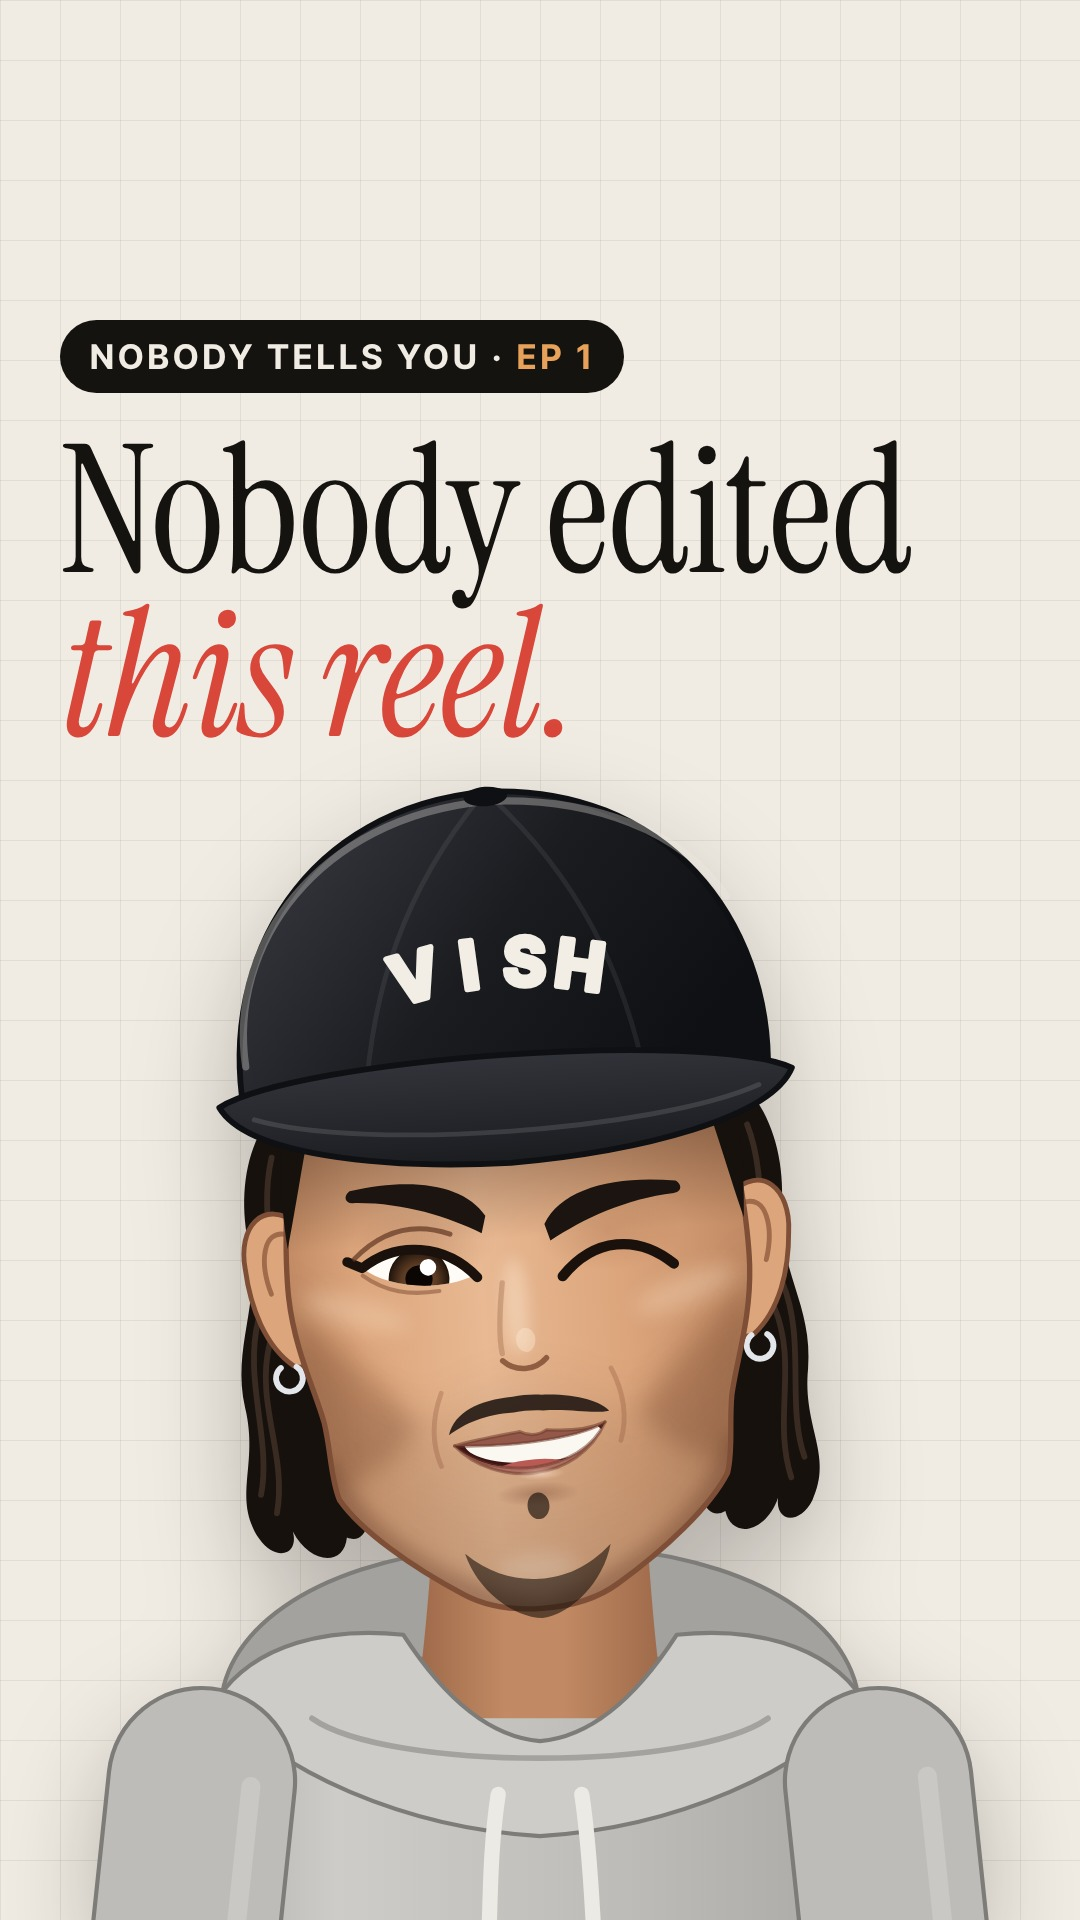
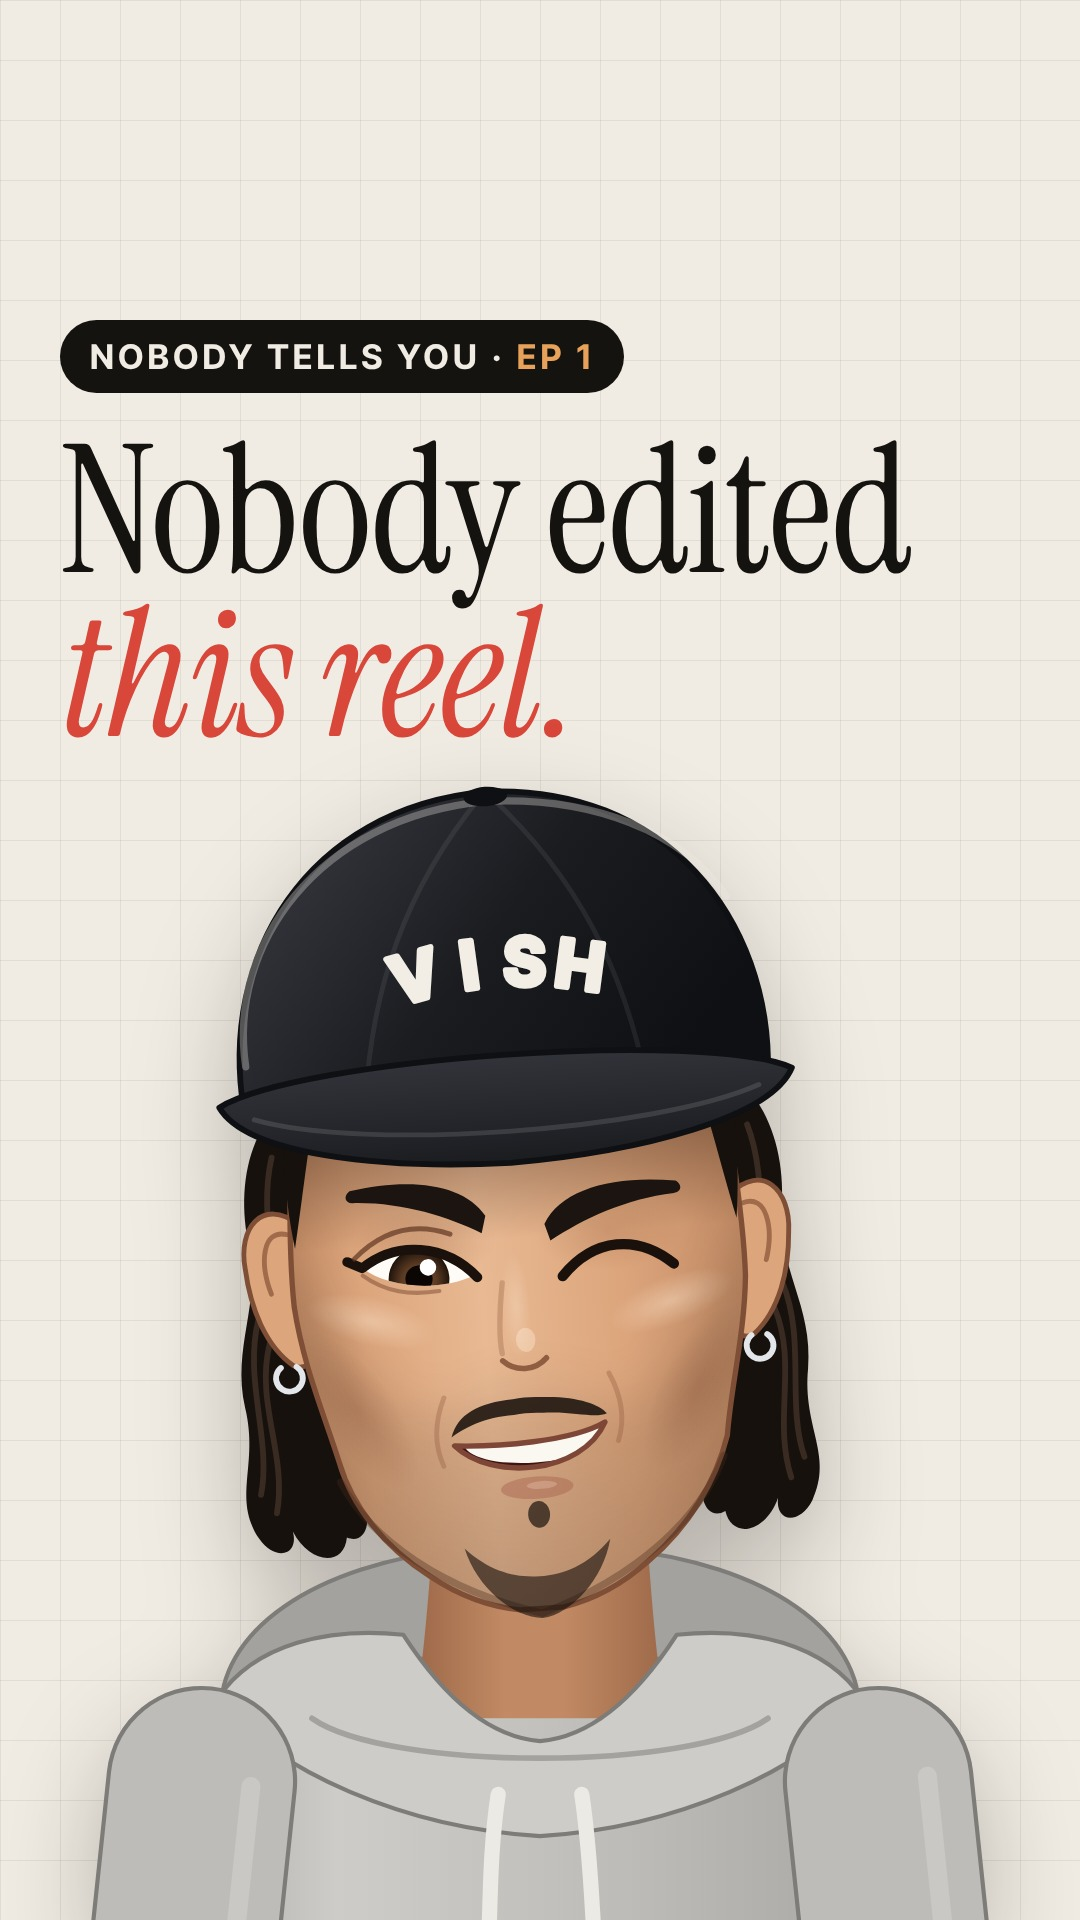
Mascot: back to the previous face (Vish: the painted lips and contour looked like Botox); three-lane render
Claude-Session: https://claude.ai/code/session_01BUA343UgLrj2H1ng6qoZ8Y

diff --git a/templates/video/char/vishcap.js b/templates/video/char/vishcap.js
@@ -66,10 +66,6 @@
     const gr = g.createRadialGradient(0, 0, 0, 0, 0, 1); gr.addColorStop(0, rgb + a + ")"); gr.addColorStop(1, rgb + "0)");
     g.fillStyle = gr; g.beginPath(); g.arc(0, 0, 1, 0, Math.PI * 2); g.fill(); g.restore();
   }
-  function soft(g, path, fill, blur) {  // a painted shade: the path filled and blurred by `blur` rig units
-    const T = g.getTransform(), k = Math.hypot(T.a, T.b);
-    g.save(); g.filter = `blur(${Math.max(0.5, blur * k)}px)`; g.fillStyle = fill; g.fill(path); g.restore();
-  }
   const OFF = new WeakMap();
   function offscreen(g) {  // a scratch canvas the size of the target, for masked layers
     let c = OFF.get(g.canvas);
@@ -122,47 +118,39 @@
       g.restore();
       if (away < 0.5) { g.strokeStyle = C.silver; g.lineWidth = 2.4; g.beginPath(); g.arc(ex + sd * 8, 45, 5.5, -0.3 * Math.PI, 1.3 * Math.PI); g.stroke(); }
     }
-    // ---- the face, a model's: cheekbones that stand out, a hollow under them, a squared jaw with a clear angle, a strong chin
+    // ---- the face, a model's: high cheekbones, a slight hollow under them, a sharp jaw, a strong chin
     const fo = new Path2D();
-    const L = [[-86, -86], [-90, -50, -96, -14, -95, 12], [-94, 34, -87, 50, -84, 64], [-82, 76, -83, 86, -80, 95], [-72, 108, -52, 124, -32, 136], [-24, 141, -13, 144, 0, 144]];
-    const R2 = [[13, 144, 24, 141, 32, 136], [52, 124, 72, 108, 80, 95], [83, 86, 82, 76, 84, 64], [87, 50, 94, 34, 95, 12], [96, -14, 90, -50, 86, -86]];
-    fo.moveTo(OX(L[0][0]), L[0][1]);
-    for (const p of L.slice(1).concat(R2)) fo.bezierCurveTo(OX(p[0]), JY(p[1]), OX(p[2]), JY(p[3]), OX(p[4]), JY(p[5]));
+    const pts = [[-86, -86], [-90, -50, -94, -12, -93, 16], [-91, 40, -84, 60, -79, 80], [-75, 98, -63, 115, -45, 128], [-33, 137, -21, 142, -9, 144], [9, 144],
+      [21, 142, 33, 137, 45, 128], [63, 115, 75, 98, 81, 80], [84, 60, 91, 40, 93, 16], [94, -12, 90, -50, 86, -86]];
+    fo.moveTo(OX(pts[0][0]), pts[0][1]);
+    for (const p of pts.slice(1)) {
+      if (p.length === 2) fo.lineTo(OX(p[0]), JY(p[1])); else fo.bezierCurveTo(OX(p[0]), JY(p[1]), OX(p[2]), JY(p[3]), OX(p[4]), JY(p[5]));
+    }
     fo.closePath();
     const fg = g.createLinearGradient(OX(-96), 0, OX(96), 0);
     fg.addColorStop(0, C.skinS); fg.addColorStop(0.16, C.skin); fg.addColorStop(0.42, C.skinL); fg.addColorStop(0.72, C.skin); fg.addColorStop(1, C.skinS);
     g.fillStyle = fg; g.fill(fo);
     g.save(); g.clip(fo);
-    // the structure, painted like a portrait: the hollow under each cheekbone, the light on the bone, the jaw turning under
+    // contour: a soft shadow under each cheekbone towards the mouth, a light on the bone above it, a light down the nose
     for (const sd of [-1, 1]) {
-      const X = (x) => OX(sd * x), away = sd * tu > 0;
-      const hol = new Path2D();
-      hol.moveTo(X(96), 20); hol.bezierCurveTo(X(80), 30, X(62), 44, FX(sd * 46), JY(68));
-      hol.bezierCurveTo(X(52), JY(80), X(68), JY(88), X(84), JY(92)); hol.bezierCurveTo(X(90), 64, X(95), 42, X(96), 20); hol.closePath();
-      soft(g, hol, `rgba(112,58,34,${away ? 0.36 : 0.27})`, 5);
-      const bone = new Path2D(); bone.ellipse(FX(sd * 68), 20, 22, 6.5, sd * -0.32, 0, Math.PI * 2);
-      soft(g, bone, "rgba(250,222,192,.34)", 4);
+      blob(g, OX(sd * 70), JY(60), 15, 38, sd * 0.55, "rgba(118,62,38,", sd * tu > 0 ? 0.3 : 0.22);
+      blob(g, FX(sd * 62), 24, 27, 10, sd * -0.3, "rgba(255,234,210,", 0.42);
     }
-    const jl = new Path2D();
-    jl.moveTo(OX(-86), JY(84)); jl.bezierCurveTo(OX(-74), JY(112), OX(-44), JY(136), FX(0), JY(148));
-    jl.bezierCurveTo(OX(44), JY(136), OX(74), JY(112), OX(86), JY(84));
-    g.save(); const T0 = g.getTransform(), k0 = Math.hypot(T0.a, T0.b); g.filter = `blur(${Math.max(1, 3.5 * k0)}px)`;
-    g.strokeStyle = "rgba(92,48,30,.32)"; g.lineWidth = 13; g.stroke(jl); g.restore();
-    soft(g, (() => { const c = new Path2D(); c.ellipse(FX(0), JY(128), 16, 7, 0, 0, Math.PI * 2); return c; })(), "rgba(255,236,214,.35)", 4);  // light on the chin
-    soft(g, (() => { const c = new Path2D(); c.ellipse(FX(-2) + tu * 8, 22, 5, 20, 0, 0, Math.PI * 2); return c; })(), "rgba(255,238,218,.42)", 3);  // light down the nose
-    // a light, clean beard shade on the jaw, chin and upper lip, fading out up the cheeks
+    blob(g, FX(-2) + tu * 8, 22, 6, 22, 0, "rgba(255,236,214,", 0.3);
+    // stubble: a short, even shadow on the jaw, chin, upper lip and up the cheeks to the sideburns, fading at the cheekbones
     const bd = new Path2D();
-    bd.moveTo(OX(-96), 4); bd.bezierCurveTo(OX(-88), 40, OX(-68), 62, FX(-36), JY(66));
-    bd.bezierCurveTo(FX(-28), 58, FX(-16), 52, FX(0), 52); bd.bezierCurveTo(FX(16), 52, FX(28), 58, FX(36), JY(66));
-    bd.bezierCurveTo(OX(68), 62, OX(88), 40, OX(96), 4); bd.lineTo(OX(120), 170); bd.lineTo(OX(-120), 170); bd.closePath();
+    bd.moveTo(OX(-96), -24); bd.bezierCurveTo(OX(-86), 18, OX(-66), 48, FX(-38), JY(64));
+    bd.bezierCurveTo(FX(-28), 58, FX(-16), 52, FX(0), 52); bd.bezierCurveTo(FX(16), 52, FX(28), 58, FX(38), JY(64));
+    bd.bezierCurveTo(OX(66), 48, OX(86), 18, OX(96), -24); bd.lineTo(OX(120), 170); bd.lineTo(OX(-120), 170); bd.closePath();
+    // drawn through a soft mask (the region, blurred) so it fades up the cheeks with no edge
     const T = g.getTransform(), k = Math.hypot(T.a, T.b), oc = offscreen(g), o2 = oc.getContext("2d");
     o2.setTransform(1, 0, 0, 1, 0, 0); o2.clearRect(0, 0, oc.width, oc.height); o2.setTransform(T);
     o2.filter = `blur(${Math.max(1, 9 * k)}px)`; o2.fillStyle = "#000"; o2.fill(bd); o2.filter = "none";
     o2.globalCompositeOperation = "source-in";
     const sg = o2.createRadialGradient(FX(0), 6, 50, FX(0), 30, 150);
-    sg.addColorStop(0, "rgba(40,26,18,.06)"); sg.addColorStop(0.5, "rgba(40,26,18,.14)"); sg.addColorStop(1, "rgba(34,22,16,.22)");
+    sg.addColorStop(0, "rgba(40,26,18,.07)"); sg.addColorStop(0.5, "rgba(40,26,18,.17)"); sg.addColorStop(1, "rgba(34,22,16,.27)");
     o2.fillStyle = sg; o2.fillRect(-150, -60, 300, 240);
-    o2.globalCompositeOperation = "source-atop"; o2.globalAlpha = 0.22; o2.fillStyle = stubble(o2); o2.fillRect(-150, -60, 300, 240);
+    o2.globalCompositeOperation = "source-atop"; o2.globalAlpha = 0.28; o2.fillStyle = stubble(o2); o2.fillRect(-150, -60, 300, 240);
     o2.globalAlpha = 1; o2.globalCompositeOperation = "source-over";
     g.save(); g.setTransform(1, 0, 0, 1, 0, 0); g.drawImage(oc, 0, 0); g.restore();
     // the cap's shadow on the forehead and the eye sockets
@@ -171,10 +159,13 @@
     for (const sd of [-1, 1]) blob(g, FX(sd * 38), -6, 30, 16, 0, "rgba(110,60,36,", 0.16);
     g.restore();
     g.strokeStyle = C.line; g.lineWidth = 2.2; g.stroke(fo);
-    // sideburns in front of the ears, under the cap, faded into the beard shade
+    // a crisp jaw: a darker line under the jaw edge where it meets the neck
+    g.strokeStyle = "rgba(70,40,26,.35)"; g.lineWidth = 3;
+    g.beginPath(); g.moveTo(OX(-79), JY(88)); g.bezierCurveTo(OX(-68), JY(112), OX(-40), JY(134), FX(0), JY(146)); g.bezierCurveTo(OX(40), JY(134), OX(68), JY(112), OX(79), JY(88)); g.stroke();
+    // sideburns in front of the ears, under the cap, faded into the stubble
     for (const sd of [-1, 1]) {
-      g.fillStyle = C.hair; g.beginPath(); g.moveTo(OX(sd * 89), -82); g.bezierCurveTo(OX(sd * 95), -56, OX(sd * 96), -30, OX(sd * 94), -8);
-      g.bezierCurveTo(OX(sd * 88), -30, OX(sd * 82), -60, OX(sd * 74), -82); g.closePath(); g.fill();
+      g.fillStyle = C.hair; g.beginPath(); g.moveTo(OX(sd * 89), -82); g.bezierCurveTo(OX(sd * 94), -56, OX(sd * 94), -30, OX(sd * 91), -8);
+      g.bezierCurveTo(OX(sd * 86), -30, OX(sd * 81), -60, OX(sd * 74), -82); g.closePath(); g.fill();
     }
 
     // ---- eyes, brows
@@ -276,75 +267,67 @@
     g.fillStyle = C.brow; g.fill(b);
   }
 
-  // the mouth: o open, w wide, s smile (-1 frown .. 1 smile), r round, a asymmetry (smirk), f lower lip under the teeth.
-  // Real lips: an upper lip with a cupid's bow, a fuller lower lip with a highlight, both following the opening.
+  // the mouth: o open, w wide, s smile (-1 frown .. 1 smile), r round, a asymmetry (smirk), f lower lip under the teeth
   function mouth(g, FX, JY, m) {
-    const y0 = 81, o = m.o, hw = 21 + 12 * m.w - 9 * m.r, sm = m.s, op = cl(o / 0.15);
+    const y0 = 81, o = m.o, hw = 21 + 12 * m.w - 9 * m.r, sm = m.s;
     const lc = [FX(-hw), y0 - sm * 6 + m.a * 5], rc = [FX(hw), y0 - sm * 6 - m.a * 6];
-    const cxm = FX(0) + m.a * 3, seam = y0 + sm * 7 + 1;
     const topY = y0 - 1 - o * 4 - m.r * o * 5, botY = JY(y0 + 2 + o * 28 + Math.max(0, sm) * 3 * o);
-    const tY = lerp(seam, topY - m.r * 6, op), bY = lerp(seam, botY + 2, op), bx = lerp(0.45, 0.6 - m.r * 0.15, op);
-    const top = [[cxm - hw * 0.5, tY], [cxm + hw * 0.5, tY]], bot = [[cxm - hw * bx, bY], [cxm + hw * bx, bY]];
-    const midT = (lc[1] + 6 * tY + rc[1]) / 8, midB = (lc[1] + 6 * bY + rc[1]) / 8;
-    const tU = 7.5 * (1 - 0.3 * m.w) * (1 - 0.3 * op), tL = 9.5 * (1 - 0.3 * m.w) * (1 - 0.15 * op);
+    const cxm = FX(0) + m.a * 3;
     // smile lines beside the corners
     if (sm > 0.5) {
-      g.strokeStyle = `rgba(140,84,56,${0.3 * (sm - 0.5) * 2})`; g.lineWidth = 2; g.lineCap = "round";
-      for (const [c, sd] of [[lc, -1], [rc, 1]]) { g.beginPath(); g.moveTo(c[0] + sd * 4, c[1] - 22); g.quadraticCurveTo(c[0] + sd * 11, c[1] - 6, c[0] + sd * 6, c[1] + 8); g.stroke(); }
+      g.strokeStyle = `rgba(140,84,56,${0.32 * (sm - 0.5) * 2})`; g.lineWidth = 2; g.lineCap = "round";
+      for (const [c, sd] of [[lc, -1], [rc, 1]]) { g.beginPath(); g.moveTo(c[0] + sd * 3, c[1] - 20); g.quadraticCurveTo(c[0] + sd * 10, c[1] - 5, c[0] + sd * 5, c[1] + 8); g.stroke(); }
     }
-    // the opening, the teeth, the tongue
-    if (o > 0.02) {
+    let lowerTop;
+    if (o < 0.05) {
+      if (m.teeth && sm > 0.6) {  // a closed smile that shows the top teeth
+        const sh = new Path2D(); sh.moveTo(lc[0], lc[1]); sh.bezierCurveTo(cxm - hw * 0.5, y0 + 2, cxm + hw * 0.5, y0 + 2, rc[0], rc[1]);
+        sh.bezierCurveTo(cxm + hw * 0.5, y0 + 13, cxm - hw * 0.5, y0 + 13, lc[0], lc[1]); sh.closePath();
+        g.fillStyle = C.mouthIn; g.fill(sh); g.save(); g.clip(sh); g.fillStyle = C.teeth; g.fillRect(lc[0] - 4, y0 - 6, hw * 2 + 8, 13); g.restore();
+        g.strokeStyle = C.lipD; g.lineWidth = 2.2; g.stroke(sh); lowerTop = y0 + 10;
+      } else {
+        g.strokeStyle = C.lipD; g.lineWidth = 3; g.lineCap = "round";
+        g.beginPath(); g.moveTo(lc[0], lc[1]); g.bezierCurveTo(cxm - hw * 0.45, y0 + sm * 7 + 1, cxm + hw * 0.45, y0 + sm * 7 + 1, rc[0], rc[1]); g.stroke();
+        lowerTop = y0 + 2 + Math.max(0, sm) * 5;
+      }
+    } else {
       const mp = new Path2D();
-      mp.moveTo(lc[0], lc[1]); mp.bezierCurveTo(top[0][0], top[0][1], top[1][0], top[1][1], rc[0], rc[1]);
-      mp.bezierCurveTo(bot[1][0], bot[1][1], bot[0][0], bot[0][1], lc[0], lc[1]); mp.closePath();
+      mp.moveTo(lc[0], lc[1]);
+      mp.bezierCurveTo(cxm - hw * 0.5, topY - m.r * 6, cxm + hw * 0.5, topY - m.r * 6, rc[0], rc[1]);
+      mp.bezierCurveTo(cxm + hw * (0.6 - m.r * 0.15), botY + 2, cxm - hw * (0.6 - m.r * 0.15), botY + 2, lc[0], lc[1]);
+      mp.closePath();
       g.fillStyle = C.mouthIn; g.fill(mp);
       g.save(); g.clip(mp);
-      g.fillStyle = C.teeth; g.beginPath(); g.ellipse(cxm, midT - 1, hw * 0.92, 9.5 - m.r * 3, 0, 0, Math.PI * 2); g.fill();
-      if (m.f > 0.3) { g.fillStyle = C.lip; g.beginPath(); g.ellipse(cxm, midT + 10, hw * 0.8, 7, 0, 0, Math.PI * 2); g.fill(); }
-      g.fillStyle = C.tongue; g.beginPath(); g.ellipse(cxm, midB + 3, hw * 0.6, 4 + o * 10, 0, 0, Math.PI * 2); g.fill();
+      g.fillStyle = C.teeth; g.beginPath(); g.ellipse(cxm, topY - 2, hw * 0.92, 9.5 - m.r * 3, 0, 0, Math.PI * 2); g.fill();  // the upper teeth
+      if (m.f > 0.3) { g.fillStyle = C.lip; g.beginPath(); g.ellipse(cxm, topY + 10, hw * 0.8, 7, 0, 0, Math.PI * 2); g.fill(); }
+      g.fillStyle = C.tongue; g.beginPath(); g.ellipse(cxm, botY + 3, hw * 0.6, 4 + o * 10, 0, 0, Math.PI * 2); g.fill();
       g.restore();
+      g.strokeStyle = C.lipD; g.lineWidth = 2.2; g.stroke(mp); lowerTop = botY + 1;
     }
-    // the upper lip: a cupid's bow above the opening
-    const ul = new Path2D();
-    ul.moveTo(lc[0], lc[1]);
-    ul.bezierCurveTo(lc[0] + hw * 0.3, midT - tU * 0.65, cxm - 10, midT - tU, cxm - 5.5, midT - tU - 0.6);
-    ul.quadraticCurveTo(cxm, midT - tU + 2.6, cxm + 5.5, midT - tU - 0.6);
-    ul.bezierCurveTo(cxm + 10, midT - tU, rc[0] - hw * 0.3, midT - tU * 0.65, rc[0], rc[1]);
-    ul.bezierCurveTo(top[1][0], top[1][1], top[0][0], top[0][1], lc[0], lc[1]); ul.closePath();
-    g.fillStyle = "#93584A"; g.fill(ul); g.strokeStyle = "rgba(108,56,42,.55)"; g.lineWidth = 1.3; g.stroke(ul);
-    // the lower lip: fuller, lighter, a highlight, a soft shadow under it
-    const ll = new Path2D();
-    ll.moveTo(lc[0], lc[1]); ll.bezierCurveTo(bot[0][0], bot[0][1], bot[1][0], bot[1][1], rc[0], rc[1]);
-    ll.bezierCurveTo(cxm + hw * 0.55, midB + tL * 1.3, cxm - hw * 0.55, midB + tL * 1.3, lc[0], lc[1]); ll.closePath();
-    blob(g, cxm, midB + tL + 5, hw * 0.55, 5, 0, "rgba(90,46,30,", 0.3);
-    g.fillStyle = "#AD6F61"; g.fill(ll); g.strokeStyle = "rgba(108,56,42,.5)"; g.lineWidth = 1.3; g.stroke(ll);
-    blob(g, cxm + 2, midB + tL * 0.5, hw * 0.32, 2.6, 0, "rgba(255,228,212,", 0.55);
-    // the line where the lips meet (closed)
-    if (o <= 0.02) {
-      g.strokeStyle = "#5E2E24"; g.lineWidth = 2.2; g.lineCap = "round";
-      g.beginPath(); g.moveTo(lc[0], lc[1]); g.bezierCurveTo(top[0][0], top[0][1], top[1][0], top[1][1], rc[0], rc[1]); g.stroke();
-    }
-    // the moustache: thin, above the upper lip, the ends down to the corners; it rides up with the lip
+    // the lower lip: a soft shape and a highlight
+    g.fillStyle = "rgba(164,92,74,.42)"; g.beginPath(); g.ellipse(cxm, lowerTop + 5, hw * 0.48, 4.6, 0, 0, Math.PI * 2); g.fill();
+    g.fillStyle = "rgba(255,226,206,.25)"; g.beginPath(); g.ellipse(cxm + 2, lowerTop + 4, hw * 0.2, 1.6, 0, 0, Math.PI * 2); g.fill();
+    // the moustache: thin, the ends down to the mouth corners; it rides up with the upper lip
     const lift = Math.min(0, topY - (y0 - 1)) * 0.6;
     g.save(); g.translate(0, lift);
     const mu = new Path2D();
-    const ey = (c) => Math.min(c[1] - 4, y0 - 7);
-    mu.moveTo(lc[0] - 2, ey(lc));
-    mu.bezierCurveTo(lc[0] + 1, y0 - 17, FX(-20), 60, FX(-6), 59.5);
-    mu.bezierCurveTo(FX(-2), 59, FX(2), 59, FX(6), 59.5);
-    mu.bezierCurveTo(FX(20), 60, rc[0] - 1, y0 - 17, rc[0] + 2, ey(rc));
-    mu.bezierCurveTo(rc[0] - 5, y0 - 12, FX(18), 66, FX(6), 66);
-    mu.bezierCurveTo(FX(2), 65.5, FX(-2), 65.5, FX(-6), 66);
-    mu.bezierCurveTo(FX(-18), 66, lc[0] + 5, y0 - 12, lc[0] - 2, ey(lc));
-    mu.closePath(); g.fillStyle = "rgba(26,18,14,.86)"; g.fill(mu);
+    const ey = (c) => Math.min(c[1] - 3, y0 - 6);
+    mu.moveTo(lc[0] - 1, ey(lc));
+    mu.bezierCurveTo(lc[0] + 2, y0 - 16, FX(-20), 61, FX(-6), 60.5);
+    mu.bezierCurveTo(FX(-2), 60, FX(2), 60, FX(6), 60.5);
+    mu.bezierCurveTo(FX(20), 61, rc[0] - 2, y0 - 16, rc[0] + 1, ey(rc));
+    mu.bezierCurveTo(rc[0] - 4, y0 - 10, FX(18), 67, FX(6), 67);
+    mu.bezierCurveTo(FX(2), 66.5, FX(-2), 66.5, FX(-6), 67);
+    mu.bezierCurveTo(FX(-18), 67, lc[0] + 4, y0 - 10, lc[0] - 1, ey(lc));
+    mu.closePath(); g.fillStyle = "rgba(26,18,14,.88)"; g.fill(mu);
     g.restore();
     // the chin beard: a small patch under the lip, a pointed beard on the chin
-    const by = midB + tL + 10;
-    g.fillStyle = "rgba(26,18,14,.66)"; g.beginPath(); g.ellipse(cxm, by, 4.5, 5.5, 0, 0, Math.PI * 2); g.fill();
+    const by = lowerTop + 16;
+    g.fillStyle = "rgba(26,18,14,.7)"; g.beginPath(); g.ellipse(cxm, by, 4.5, 5.5, 0, 0, Math.PI * 2); g.fill();
     const cb = new Path2D();
-    cb.moveTo(FX(-30), JY(120)); cb.bezierCurveTo(FX(-20), JY(129), FX(-10), JY(132), FX(0), JY(132)); cb.bezierCurveTo(FX(10), JY(132), FX(20), JY(129), FX(30), JY(120));
-    cb.bezierCurveTo(FX(26), JY(135), FX(12), JY(147), FX(0), JY(148)); cb.bezierCurveTo(FX(-12), JY(147), FX(-26), JY(135), FX(-30), JY(120)); cb.closePath();
-    g.fillStyle = "rgba(26,18,14,.6)"; g.fill(cb);
+    cb.moveTo(FX(-30), JY(118)); cb.bezierCurveTo(FX(-20), JY(128), FX(-10), JY(131), FX(0), JY(131)); cb.bezierCurveTo(FX(10), JY(131), FX(20), JY(128), FX(30), JY(118));
+    cb.bezierCurveTo(FX(26), JY(134), FX(12), JY(147), FX(0), JY(148)); cb.bezierCurveTo(FX(-12), JY(147), FX(-26), JY(134), FX(-30), JY(118)); cb.closePath();
+    g.fillStyle = "rgba(26,18,14,.62)"; g.fill(cb);
   }
 
   // ----------------------------------------------------------------------------------------------------- hands

diff --git a/PLAYBOOK.md b/PLAYBOOK.md
@@ -200,7 +200,7 @@ Research → topic validation → hook → script → storyboard → edit → ca
   - possibly the two songs baked into the audio.
 
   Fixes from Week 2: hook first, 35 to 45 s, and the distribution routine below. Never promise "viral"; report the real numbers.
-- **Mascot (28 Oct): never cut a talking mouth into a still picture.** The lip mask on the 3D mascot PNGs looked "horrible, creepy". The talking mascot is now Vish in 2D, drawn fully in code (`templates/video/char/vishcap.js`): black cap, grey hoodie, white tee, black joggers, the look from the haircut clip (IMG_8731). Every part of the face moves on its own: mouth shapes from the words, blinks, brows, eyes, head. Nose rule as always: small and slim, and he should look handsome. Check a still sheet (`templates/video/char/sheets/vishcap_sheet.py`) after any change to the face.
+- **Mascot (28 Oct): never cut a talking mouth into a still picture.** The lip mask on the 3D mascot PNGs looked "horrible, creepy". The talking mascot is now Vish in 2D, drawn fully in code (`templates/video/char/vishcap.js`): black cap, grey hoodie, white tee, black joggers, the look from the haircut clip (IMG_8731). Every part of the face moves on its own: mouth shapes from the words, blinks, brows, eyes, head. Nose rule as always: small and slim, and he should look handsome. Check a still sheet (`templates/video/char/sheets/vishcap_sheet.py`) after any change to the face. Locked look (28 Oct, commit d64e60a): light beard shade, lit cheekbones, thicker neck. Painted lips and contour hollows were rejected ("looks like Botox").
 - **Distribution routine for every Reel:**
   - the same day, also post to YouTube Shorts and LinkedIn;
   - share it to the Story with a question sticker;
